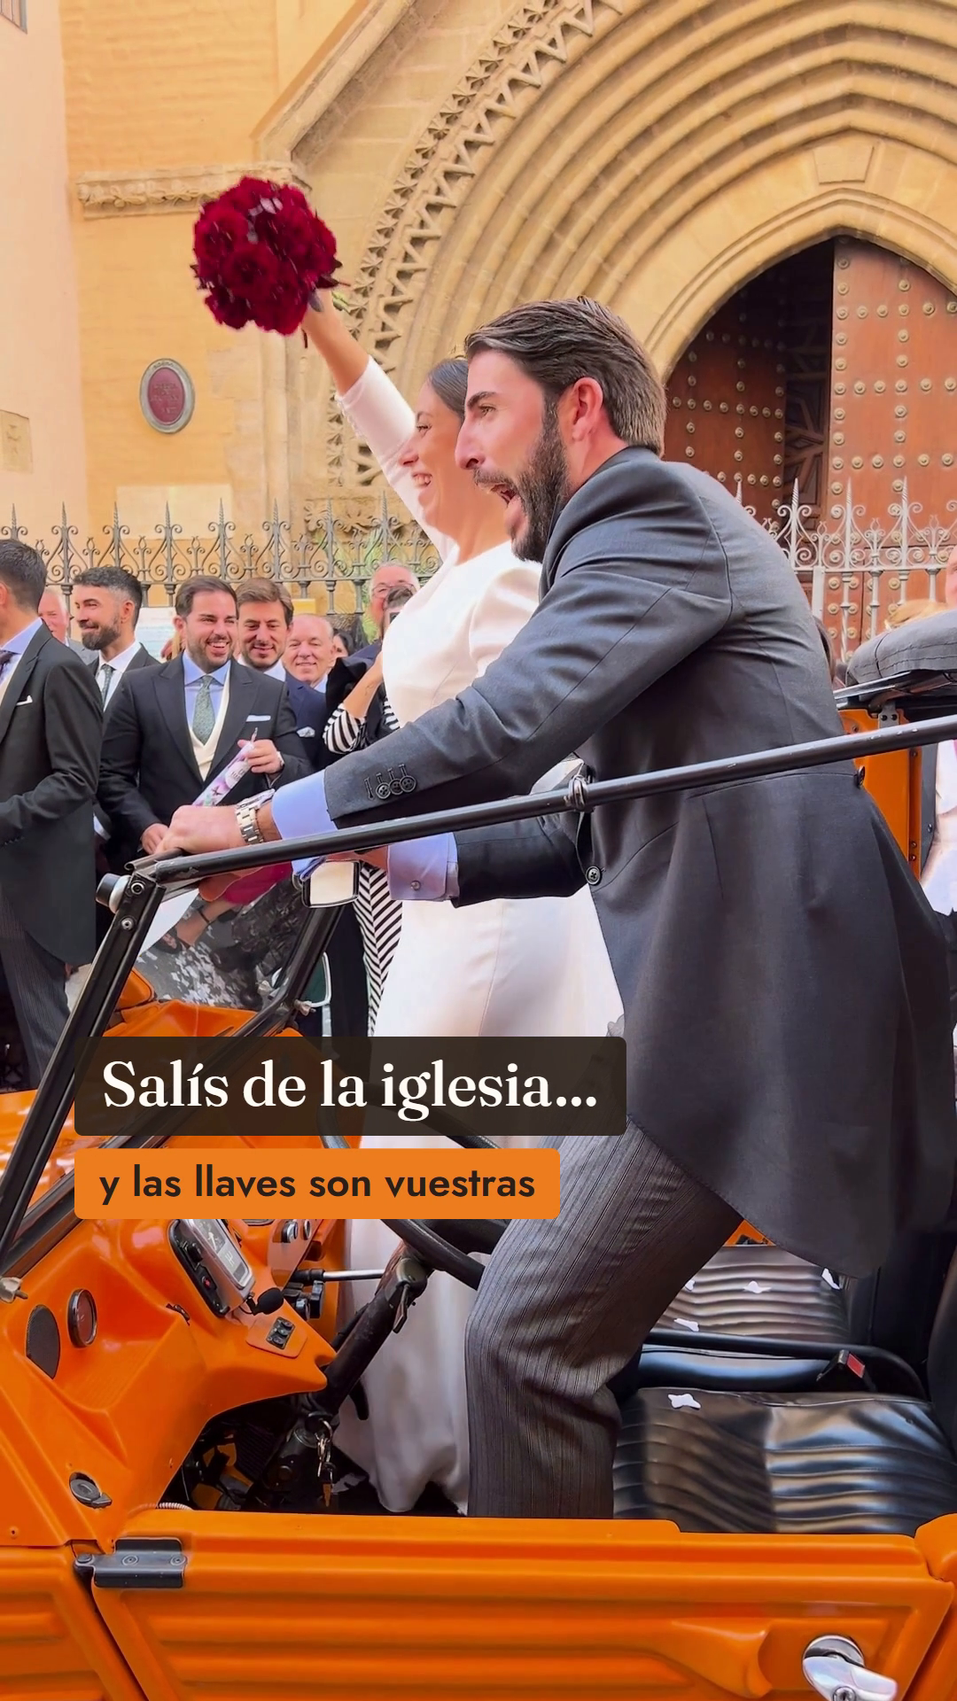
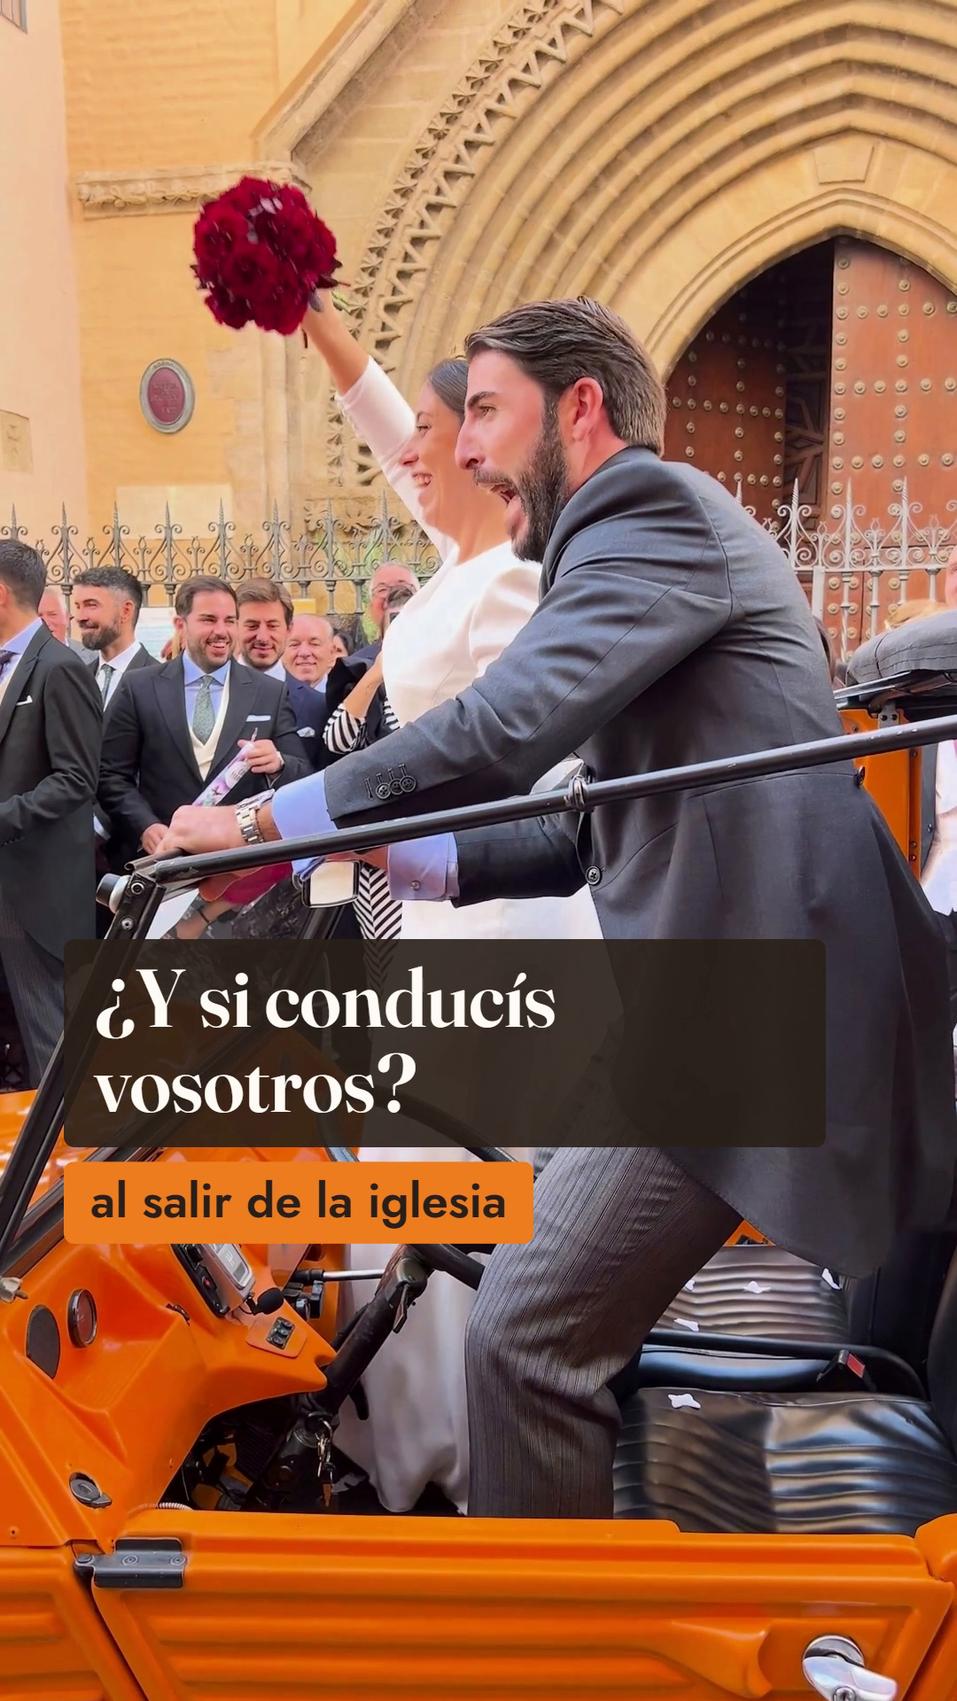
Rehace el reel «Las llaves son vuestras» (v2): gancho, rótulos y cierre
Gancho «¿Y si conducís vosotros?» desde el segundo 0, rótulos casi al doble
de tamaño colocados para no tapar caras, fuera el plano del chófer, CTA sobre
el último plano y cierre corto de 1,5 s. Pasa de 22 a 18 s.

Changed region(s): [[0.0611, 0.5312, 0.8861, 0.75]]

diff --git a/redes/instagram/reels/2026-10-23_las-llaves-son-vuestras/index.html b/redes/instagram/reels/2026-10-23_las-llaves-son-vuestras/index.html
@@ -19,57 +19,52 @@
 
       video.plano { position: absolute; inset: 0; width: 1080px; height: 1920px; object-fit: cover; }
 
-      /* Rótulos: dentro de la zona segura de Instagram (libres la franja de arriba,
-         la de abajo con el texto y los botones, y la columna derecha) */
-      .rotulo { position: absolute; left: 84px; width: 820px; display: flex; flex-direction: column; align-items: flex-start; gap: 14px; }
-      .rotulo.abajo { top: 1170px; }
-      .rotulo.arriba { top: 300px; }
+      /* Rótulos (v2): casi el doble de grandes que en la v1 y colocados plano a plano donde no
+         tapan caras. Siempre dentro de la zona segura de Instagram: libres la franja de arriba,
+         la de abajo (desde 1480 px, texto y usuario) y la columna derecha de botones. */
+      .rotulo { position: absolute; left: 72px; width: 860px; display: flex; flex-direction: column; align-items: flex-start; gap: 16px; }
+      .rotulo.abajo { top: 1060px; }
+      .rotulo.arriba { top: 270px; }
       .linea { display: inline-block; }
-      .principal { font-family: "Fraunces", serif; font-weight: 500; font-size: 70px; line-height: 1.12; color: var(--azahar); background: rgba(43, 33, 26, 0.9); padding: 14px 30px 20px; border-radius: 10px; }
-      .secundaria { font-weight: 600; font-size: 46px; line-height: 1.15; color: var(--tinta); background: var(--naranja); padding: 12px 28px 15px; border-radius: 10px; }
+      .principal { font-family: "Fraunces", serif; font-weight: 600; font-size: 92px; line-height: 1.04; color: var(--azahar); background: rgba(43, 33, 26, 0.9); padding: 18px 34px 26px; border-radius: 12px; }
+      .secundaria { font-weight: 600; font-size: 54px; line-height: 1.12; color: var(--tinta); background: var(--naranja); padding: 14px 30px 18px; border-radius: 12px; }
     </style>
   </head>
   <body>
-    <div id="root" data-composition-id="reel" data-start="0" data-duration="22" data-width="1080" data-height="1920">
+    <div id="root" data-composition-id="reel" data-start="0" data-duration="18" data-width="1080" data-height="1920">
 
-      <!-- Pista 0: los siete planos, en corte seco sobre una rejilla de 0,5 s (120 BPM).
-           Sin sonido original: e1 lleva música de fondo de la boda. La pista se pone en Instagram. -->
+      <!-- Pista 0: seis planos en corte seco sobre una rejilla de 0,5 s (120 BPM). La v2 quita el
+           plano del chófer (V140): contradecía el gancho. Sin sonido original; la música se pone en Instagram. -->
       <video id="e1" class="clip plano" src="assets/clips/e1_v139a.mp4" data-start="0" data-duration="3" data-media-start="0" data-track-index="0" playsinline muted></video>
       <video id="e2" class="clip plano" src="assets/clips/e2_v139b.mp4" data-start="3" data-duration="3" data-media-start="0" data-track-index="0" playsinline muted></video>
-      <video id="e3" class="clip plano" src="assets/clips/e3_v140.mp4" data-start="6" data-duration="2.5" data-media-start="0" data-track-index="0" playsinline muted></video>
-      <video id="e4" class="clip plano" src="assets/clips/e4_v084.mp4" data-start="8.5" data-duration="3" data-media-start="0" data-track-index="0" playsinline muted></video>
-      <video id="e5" class="clip plano" src="assets/clips/e5_v023.mp4" data-start="11.5" data-duration="2.5" data-media-start="0" data-track-index="0" playsinline muted></video>
-      <video id="e6" class="clip plano" src="assets/clips/e6_v144.mp4" data-start="14" data-duration="2.5" data-media-start="0" data-track-index="0" playsinline muted></video>
-      <video id="e7" class="clip plano" src="assets/clips/e7_v132.mp4" data-start="16.5" data-duration="2.5" data-media-start="0" data-track-index="0" playsinline muted></video>
+      <video id="e4" class="clip plano" src="assets/clips/e4_v084.mp4" data-start="6" data-duration="3" data-media-start="0" data-track-index="0" playsinline muted></video>
+      <video id="e5" class="clip plano" src="assets/clips/e5_v023.mp4" data-start="9" data-duration="2.5" data-media-start="0" data-track-index="0" playsinline muted></video>
+      <video id="e6" class="clip plano" src="assets/clips/e6_v144.mp4" data-start="11.5" data-duration="2.5" data-media-start="0" data-track-index="0" playsinline muted></video>
+      <video id="e7" class="clip plano" src="assets/clips/e7_v132.mp4" data-start="14" data-duration="2.5" data-media-start="0" data-track-index="0" playsinline muted></video>
 
-      <!-- Pista 1: cierre de marca -->
-      <div id="cierre" data-composition-id="cierre" data-composition-src="compositions/cierre.html" data-start="19" data-duration="3" data-track-index="1" data-width="1080" data-height="1920"></div>
+      <!-- Pista 1: cierre de marca corto (1,5 s). La llamada a la acción ya va sobre el último plano -->
+      <div id="cierre" data-composition-id="cierre" data-composition-src="compositions/cierre-corto.html" data-start="16.5" data-duration="1.5" data-track-index="1" data-width="1080" data-height="1920"></div>
 
       <!-- Pista 2: rótulos, uno por plano -->
       <div id="r1" class="clip rotulo abajo" data-start="0" data-duration="3" data-track-index="2">
-        <span class="linea principal">Salís de la iglesia…</span>
-        <span class="linea secundaria">y las llaves son vuestras</span>
+        <span class="linea principal">¿Y si conducís vosotros?</span>
+        <span class="linea secundaria">al salir de la iglesia</span>
       </div>
       <div id="r2" class="clip rotulo abajo" data-start="3" data-duration="3" data-track-index="2">
-        <span class="linea principal">Lo conducís vosotros</span>
-        <span class="linea secundaria">con una clase antes de la boda</span>
+        <span class="linea principal">Con una clase antes de la boda</span>
       </div>
-      <div id="r3" class="clip rotulo abajo" data-start="6" data-duration="2.5" data-track-index="2">
-        <span class="linea principal">O con chófer,</span>
-        <span class="linea secundaria">como prefiráis</span>
+      <div id="r4" class="clip rotulo arriba" data-start="6" data-duration="3" data-track-index="2">
+        <span class="linea principal">Las cestas, con vuestras flores</span>
       </div>
-      <div id="r4" class="clip rotulo abajo" data-start="8.5" data-duration="3" data-track-index="2">
-        <span class="linea principal">Las cestas, con las flores</span>
-        <span class="linea secundaria">de vuestra boda</span>
-      </div>
-      <div id="r5" class="clip rotulo abajo" data-start="11.5" data-duration="2.5" data-track-index="2">
+      <div id="r5" class="clip rotulo abajo" data-start="9" data-duration="2.5" data-track-index="2">
         <span class="linea principal">Naranja…</span>
       </div>
-      <div id="r6" class="clip rotulo arriba" data-start="14" data-duration="2.5" data-track-index="2">
+      <div id="r6" class="clip rotulo arriba" data-start="11.5" data-duration="2.5" data-track-index="2">
         <span class="linea principal">…o beige</span>
       </div>
-      <div id="r7" class="clip rotulo abajo" data-start="16.5" data-duration="2.5" data-track-index="2">
+      <div id="r7" class="clip rotulo abajo" data-start="14" data-duration="2.5" data-track-index="2">
         <span class="linea principal">¿Os casáis en 2027?</span>
+        <span class="linea secundaria">Escribidnos vuestra fecha</span>
       </div>
     </div>
 
@@ -77,11 +72,11 @@
       const tl = gsap.timeline({ paused: true });
 
       // Rótulos: cada línea se descubre de izquierda a derecha y se asienta sin rebote.
-      // El primero aparece casi de inmediato para que el gancho se lea en el primer segundo.
+      // El gancho aparece casi de inmediato para que se lea en el primer segundo.
       const oculto = { clipPath: "inset(0 100% 0 0)", x: -16 };
       const visible = { clipPath: "inset(0 0% 0 0)", x: 0, duration: 0.42, ease: "expo.out" };
-      const principales = [["#r1 .principal", 0.05], ["#r2 .principal", 3.12], ["#r3 .principal", 6.12], ["#r4 .principal", 8.62], ["#r5 .principal", 11.62], ["#r6 .principal", 14.12], ["#r7 .principal", 16.62]];
-      const secundarias = [["#r1 .secundaria", 0.27], ["#r2 .secundaria", 3.34], ["#r3 .secundaria", 6.34], ["#r4 .secundaria", 8.84]];
+      const principales = [["#r1 .principal", 0.03], ["#r2 .principal", 3.12], ["#r4 .principal", 6.12], ["#r5 .principal", 9.12], ["#r6 .principal", 11.62], ["#r7 .principal", 14.08]];
+      const secundarias = [["#r1 .secundaria", 0.3], ["#r7 .secundaria", 14.4]];
       principales.concat(secundarias).forEach(([sel, t]) => tl.fromTo(sel, oculto, visible, t));
 
       window.__timelines["reel"] = tl;

diff --git a/redes/instagram/reels/2026-10-23_las-llaves-son-vuestras/compositions/cierre-corto.html b/redes/instagram/reels/2026-10-23_las-llaves-son-vuestras/compositions/cierre-corto.html
@@ -1,0 +1,51 @@
+<!DOCTYPE html>
+<html lang="es">
+  <head>
+    <meta charset="UTF-8">
+    <!-- Cierre corto de reel, 1,5 s (el de 3 s, con los tiempos a la mitad). Reutilizable: copia este fichero y móntalo al final del reel.
+         Las tipografías se cargan desde assets/fonts/ del proyecto que lo monta. -->
+  </head>
+  <body>
+    <template>
+      <style>
+        @font-face { font-family: "Fraunces"; src: url("assets/fonts/Fraunces.woff2") format("woff2"); font-weight: 300 700; }
+        @font-face { font-family: "Jost"; src: url("assets/fonts/Jost.woff2") format("woff2"); font-weight: 300 800; }
+        #root { position: absolute; inset: 0; background: #2B211A; font-family: "Jost", sans-serif; }
+        .costilla { position: absolute; left: 0; width: 1080px; background: #EE7D1F; transform-origin: 50% 50%; }
+        .textos-cierre { position: absolute; inset: 0; display: flex; flex-direction: column; align-items: center; padding: 860px 110px 0; gap: 24px; }
+        .mascara { overflow: hidden; padding-bottom: 8px; }
+        #marca { display: block; font-family: "Fraunces", serif; font-weight: 500; font-size: 112px; line-height: 1.05; color: #FFFCF5; text-align: center; }
+        #subtitulo { font-weight: 600; font-size: 28px; letter-spacing: 0.42em; color: #DCC6A0; margin-bottom: 40px; }
+        #cta { font-weight: 600; font-size: 44px; color: #2B211A; background: #EE7D1F; padding: 28px 52px; border-radius: 999px; }
+        #whatsapp { font-weight: 500; font-size: 38px; color: #DCC6A0; }
+      </style>
+
+      <div id="root" data-composition-id="cierre" data-width="1080" data-height="1920">
+        <div id="costilla-1" class="costilla" style="top: 600px; height: 46px"></div>
+        <div id="costilla-2" class="costilla" style="top: 668px; height: 26px"></div>
+        <div id="costilla-3" class="costilla" style="top: 716px; height: 26px"></div>
+        <div id="costilla-4" class="costilla" style="top: 764px; height: 38px"></div>
+        <div class="textos-cierre">
+          <div class="mascara" data-layout-allow-overflow="true"><span id="marca">Mehari We</span></div>
+          <p id="subtitulo">WEDDINGS &amp; EVENTS</p>
+          <p id="cta">Escribidnos vuestra fecha</p>
+          <p id="whatsapp">WhatsApp · 625 06 42 93</p>
+        </div>
+      </div>
+
+      <script>
+        const tl = gsap.timeline({ paused: true });
+        // Las costillas entran desde lados alternos y se estrechan hasta un friso sobre el nombre
+        ["#costilla-1", "#costilla-2", "#costilla-3", "#costilla-4"].forEach((id, i) => {
+          tl.fromTo(id, { x: i % 2 ? 1180 : -1180 }, { x: 0, duration: 0.25, ease: "expo.out" }, 0.025 + i * 0.03);
+        });
+        tl.fromTo(".costilla", { scaleX: 1 }, { scaleX: 0.3, duration: 0.25, ease: "power3.inOut", immediateRender: false }, 0.35);
+        tl.fromTo("#marca", { yPercent: 105 }, { yPercent: 0, duration: 0.3, ease: "expo.out" }, 0.375);
+        tl.fromTo("#subtitulo", { opacity: 0 }, { opacity: 1, duration: 0.2, ease: "sine.out" }, 0.5);
+        tl.fromTo("#cta", { opacity: 0, scale: 0.88 }, { opacity: 1, scale: 1, duration: 0.2, ease: "power3.out" }, 0.575);
+        tl.fromTo("#whatsapp", { opacity: 0, x: -20 }, { opacity: 1, x: 0, duration: 0.175, ease: "power2.out" }, 0.675);
+        window.__timelines["cierre"] = tl;
+      </script>
+    </template>
+  </body>
+</html>

diff --git a/redes/instagram/publicaciones/2026-10-23_reel_las-llaves-son-vuestras.md b/redes/instagram/publicaciones/2026-10-23_reel_las-llaves-son-vuestras.md
@@ -3,7 +3,7 @@
 | Campo | Valor |
 |---|---|
 | Fecha prevista | 2026-10-23 (primera publicación de la cuenta; propuesta) |
-| Formato | Reel (22 s) |
+| Formato | Reel (18 s; v2 del 2026-10-27, la v1 duraba 22 s) |
 | Línea | Bodas |
 | Pilar | Hazlo a tu manera, con prueba de bodas reales |
 | Objetivo | Alcance (que salga a no seguidores y se comparta), con llamada a la acción de conversión |
@@ -23,7 +23,7 @@ Vídeos del cliente (Drive · `Mehari We/01_Material/Selecccion/videos/bodas/`).
 |---|---|---|
 | E1 | `V139_q5_naranja.mov` (0,3–3,3 s) | APTA CON RETOQUE: chevrón del volante difuminado |
 | E2 | `V139_q5_naranja.mov` (9,3–12,3 s) | APTA CON RETOQUE: chevrón del volante difuminado |
-| E3 | `V140_q4_naranja.mov` (0,2–2,7 s) | APTA. Solo este tramo: después se ven la matrícula y el rótulo del fabricante en la trasera |
+| ~~E3~~ | `V140_q4_naranja.mov` (0,2–2,7 s) | APTA. Solo este tramo: después se ven la matrícula y el rótulo del fabricante en la trasera. **Fuera en la v2** |
 | E4 | `V084_q4_naranja.mov` (4,3–7,3 s) | APTA |
 | E5 | `V023_q5_naranja.mov` (0,3–2,8 s), recorte 9:16 en movimiento | APTA. La mano tapa el centro del volante |
 | E6 | `V144_q5_beige.mov` (14,4–16,9 s), ampliado ×1,2 y anclado a la izquierda | APTA CON RECORTE Y RETOQUE: el recorte deja fuera las matrículas de las motos; matrícula y chevrones del beige difuminados mientras se ven |
@@ -33,22 +33,31 @@ Descartados al revisar a resolución completa: V044 (texto «@MEHARI_TOUR…» e
 
 Todas las caras son de adultos. Hay consentimiento de las parejas (`docs/decisiones.md`, 2026-10-07). Son vídeos de móvil del cliente, no fotos de fotógrafo ni de prensa.
 
-## Guion
+## Guion (v2)
 
-Rejilla de 0,5 s (120 BPM): todos los cortes caen en el pulso. Sin voz.
+Rejilla de 0,5 s (120 BPM): todos los cortes caen en el pulso. Sin voz. Los cambios de la v2 salen de [`docs/planes/analisis-competencia-reels.md`](../../../docs/planes/analisis-competencia-reels.md) §3.
 
 | Escena | Tiempo | Tramo | Plano | Texto en pantalla |
 |---|---|---|---|---|
-| E1 | 0–3 s | Gancho | El novio, de pie en el Méhari naranja delante de la iglesia, levanta los brazos; ella alza el ramo rojo; los invitados aplauden | **Salís de la iglesia…** / y las llaves son vuestras |
-| E2 | 3–6 s | Detalle | Él se deja caer en el asiento del conductor y agarra el volante; ella se ríe | **Lo conducís vosotros** / con una clase antes de la boda |
-| E3 | 6–8,5 s | Detalle | Desde atrás: él conduce, ella con el velo, la calle llena de invitados con el móvil | **O con chófer,** / como prefiráis |
-| E4 | 8,5–11,5 s | Prueba | Lluvia de pétalos a la salida de la iglesia, vista desde las cestas llenas de flores del coche | **Las cestas, con las flores** / de vuestra boda |
-| E5 | 11,5–14 s | Detalle | Otra pareja: él al volante del naranja, ella con el ramo blanco, miran a cámara | **Naranja…** |
-| E6 | 14–16,5 s | Detalle | Una novia con un velo larguísimo cruza una calle con el Méhari beige detrás | **…o beige** (arriba, para no tapar a la novia) |
-| E7 | 16,5–19 s | Momento | Atardecer: la novia de pie en el naranja descapotado mientras él conduce | **¿Os casáis en 2027?** |
-| Cierre | 19–22 s | Cierre | Las costillas entran y forman un friso; aparecen el nombre, el subtítulo y la llamada a la acción | Mehari We · WEDDINGS & EVENTS · **Escribidnos vuestra fecha** · WhatsApp · 625 06 42 93 |
+| E1 | 0–3 s | Gancho | El novio, de pie en el Méhari naranja delante de la iglesia, levanta los brazos; ella alza el ramo rojo; los invitados aplauden | **¿Y si conducís vosotros?** / al salir de la iglesia (abajo, sobre la puerta: las caras van arriba) |
+| E2 | 3–6 s | Detalle | Él se deja caer en el asiento del conductor y agarra el volante; ella se ríe | **Con una clase antes de la boda** |
+| E4 | 6–9 s | Prueba | Lluvia de pétalos a la salida de la iglesia, vista desde las cestas llenas de flores del coche | **Las cestas, con vuestras flores** (arriba, sobre la fachada) |
+| E5 | 9–11,5 s | Detalle | Otra pareja: él al volante del naranja, ella con el ramo blanco, miran a cámara | **Naranja…** |
+| E6 | 11,5–14 s | Detalle | Una novia con un velo larguísimo cruza una calle con el Méhari beige detrás | **…o beige** (arriba, para no tapar a la novia) |
+| E7 | 14–16,5 s | Momento y CTA | Atardecer: la novia de pie en el naranja descapotado mientras él conduce | **¿Os casáis en 2027?** / Escribidnos vuestra fecha |
+| Cierre | 16,5–18 s | Cierre | Cierre corto (`compositions/cierre-corto.html`): las costillas forman el friso y aparecen el nombre y el teléfono | Mehari We · WEDDINGS & EVENTS · Escribidnos vuestra fecha · WhatsApp · 625 06 42 93 |
 
-Comprobación por escena: tras E2 se sabe que pueden conducirlo; tras E3, que también hay chófer; tras E4, lo de las cestas; tras E5 y E6, que hay dos colores; E7 pregunta si es para ellos; el cierre dice cómo pedirlo.
+Comprobación por escena: tras E1 se sabe que pueden conducirlo ellos; tras E2, que hay clase antes; tras E4, lo de las cestas; tras E5 y E6, que hay dos colores; E7 pregunta si es para ellos y dice cómo pedirlo; el cierre deja el teléfono.
+
+### Qué cambia respecto a la v1
+
+| v1 | v2 | Por qué |
+|---|---|---|
+| Gancho «Salís de la iglesia…» y el diferencial en el segundo 3 | «¿Y si conducís vosotros?» desde el segundo 0 | Los reels que más reparten dicen la idea en el primer segundo |
+| Rótulos de 70 y 46 px, segunda línea diminuta | 92 y 54 px, colocados plano a plano donde no tapan caras | En el móvil, la segunda línea no se leía |
+| E3 «O con chófer» | Fuera | Contradecía el gancho; el chófer va en otra pieza |
+| CTA solo en el cierre de 3 s | CTA sobre el atardecer y cierre de 1,5 s | El cierre en negro cortaba el bucle y perdía retención |
+| 22 s | 18 s | Los referentes que funcionan duran de 10 a 18 s |
 
 ## Copy
 
@@ -56,7 +65,9 @@ Comprobación por escena: tras E2 se sabe que pueden conducirlo; tras E3, que ta
 >
 > Elegís el naranja o el beige, las cestas de mimbre de atrás se decoran con las flores de vuestra boda y salís entre todos vuestros invitados.
 >
-> ¿Os casáis en 2027? Escribidnos vuestra fecha por WhatsApp al 625 06 42 93 y os decimos si hay un Méhari libre ese día. Y si conocéis a alguien que se casa, mandádselo.
+> ¿Os casáis en 2027? Escribidnos vuestra fecha por WhatsApp al 625 06 42 93 y os decimos si hay un Méhari libre ese día.
+>
+> Mandádselo a quien se case en 2027 💍
 
 La primera frase (66 caracteres) se lee entera antes del "más".
 
@@ -67,7 +78,7 @@ La primera frase (66 caracteres) se lee entera antes del "más".
 ## Publicación
 
 - **Música**: se añade en Instagram al subir el reel. Con cuenta de empresa, solo la biblioteca de audio con licencia comercial de Meta. Buscar algo alegre y cálido (pop acústico o swing) a unos 120 BPM. El vídeo va sin sonido original: el del primer plano lleva música de fondo de la propia boda.
-- **Portada**: `portada.png` (fotograma de 1,3 s con el rótulo del gancho). Funciona en el recorte 3:4 de la cuadrícula del perfil.
+- **Portada**: `portada.png` (fotograma de 1,3 s con el gancho «¿Y si conducís vosotros?»). Comprobada en el recorte 3:4 de la cuadrícula: el rótulo queda dentro.
 - **Ubicación**: Sevilla.
 - **Texto alternativo**: Montaje de bodas reales con dos Méhari clásicos. Un novio salta al asiento del conductor de un Méhari naranja descapotado ante una iglesia mientras la novia levanta el ramo y los invitados aplauden. Lluvia de pétalos a la salida de la iglesia vista desde las cestas de flores del coche. Una pareja conduciendo el naranja. Una novia con un velo larguísimo junto al Méhari beige. Una novia de pie en el coche al atardecer. Cierre con el nombre Mehari We y el teléfono 625 06 42 93.
 - **Comentario fijado** (opcional): «¿Quién de los dos conduciría? 👇». Pregunta real que invita a comentar y etiquetar a la pareja.
@@ -79,7 +90,8 @@ La primera frase (66 caracteres) se lee entera antes del "más".
 - Un rótulo por plano, como mucho dos líneas: Fraunces en caja tinta y Jost en caja naranja. Tipografías y paleta de `marca/tokens.css`, **provisionales**.
 - El cierre usa solo el nombre y las costillas, sin símbolo: el logo no está elegido. Cuando lo esté, se sustituye en `compositions/cierre.html`.
 - Los tres techos se quedan fuera para no cargar la pieza: van en su propio carrusel del grid semilla.
-- 22 s y cierre de 3 s: más corto que el cierre de marca de 4 s para no perder retención al final del bucle.
+- ~~22 s y cierre de 3 s~~ (v1). v2: 18 s y cierre de 1,5 s, con la llamada a la acción sobre el último plano.
+- v2: el CTA para compartir va en una línea propia al final del copy, como en los reels de la competencia que funcionan.
 
 ## Pendiente antes de publicar (bloqueante)
 
@@ -96,7 +108,9 @@ La primera frase (66 caracteres) se lee entera antes del "más".
 - [x] Texto alternativo para accesibilidad
 - [ ] Etiquetas a los fotógrafos, parejas o lugares, si procede (no hay fotógrafo; preguntar al cliente si las parejas quieren que se las etiquete)
 
-**Probado:** `hyperframes check` sin errores (contraste AA 9/9, maquetación sin incidencias); hoja de contactos del MP4 final (`contactos.png`) revisada plano a plano; difuminados revisados fotograma a fotograma en los tramos con volante, matrícula y chevrones; el primer segundo, con el gancho legible a 0,4 s; espectrograma del audio original (por eso va sin él); render en H.264 SDR BT.709 1080×1920 a 30 fps, 22,0 s. No probado todavía: verlo en un móvil a tamaño real y con la música elegida.
+**Probado (v2, 2026-10-27):** `hyperframes check` sin errores (1 aviso de pista densa, el mismo de la v1; contraste AA 5/5; maquetación sin incidencias en 9 muestras); render en H.264 SDR BT.709 1080×1920 a 30 fps, 18,0 s, con pista AAC en silencio; un fotograma por escena a 390 px de ancho, con todos los rótulos legibles y sin tapar caras; el gancho se lee a los 0,4 s; portada comprobada en el recorte 3:4. Los planos son los mismos de la v1, con los difuminados ya revisados. No probado todavía: verlo en un móvil a tamaño real y con la música elegida.
+
+**Probado (v1):** `hyperframes check` sin errores (contraste AA 9/9, maquetación sin incidencias); hoja de contactos del MP4 final (`contactos.png`) revisada plano a plano; difuminados revisados fotograma a fotograma en los tramos con volante, matrícula y chevrones; el primer segundo, con el gancho legible a 0,4 s; espectrograma del audio original (por eso va sin él); render en H.264 SDR BT.709 1080×1920 a 30 fps, 22,0 s. No probado todavía: verlo en un móvil a tamaño real y con la música elegida.
 
 ## Ficheros
 

diff --git a/redes/instagram/reels/2026-10-23_las-llaves-son-vuestras/BRIEF.md b/redes/instagram/reels/2026-10-23_las-llaves-son-vuestras/BRIEF.md
@@ -7,7 +7,7 @@ destination: instagram-reels
 aspect: "9:16"
 language: es
 audience: parejas que se casan en 2027
-length: 22s
+length: 18s
 ---
 
 # Brief
